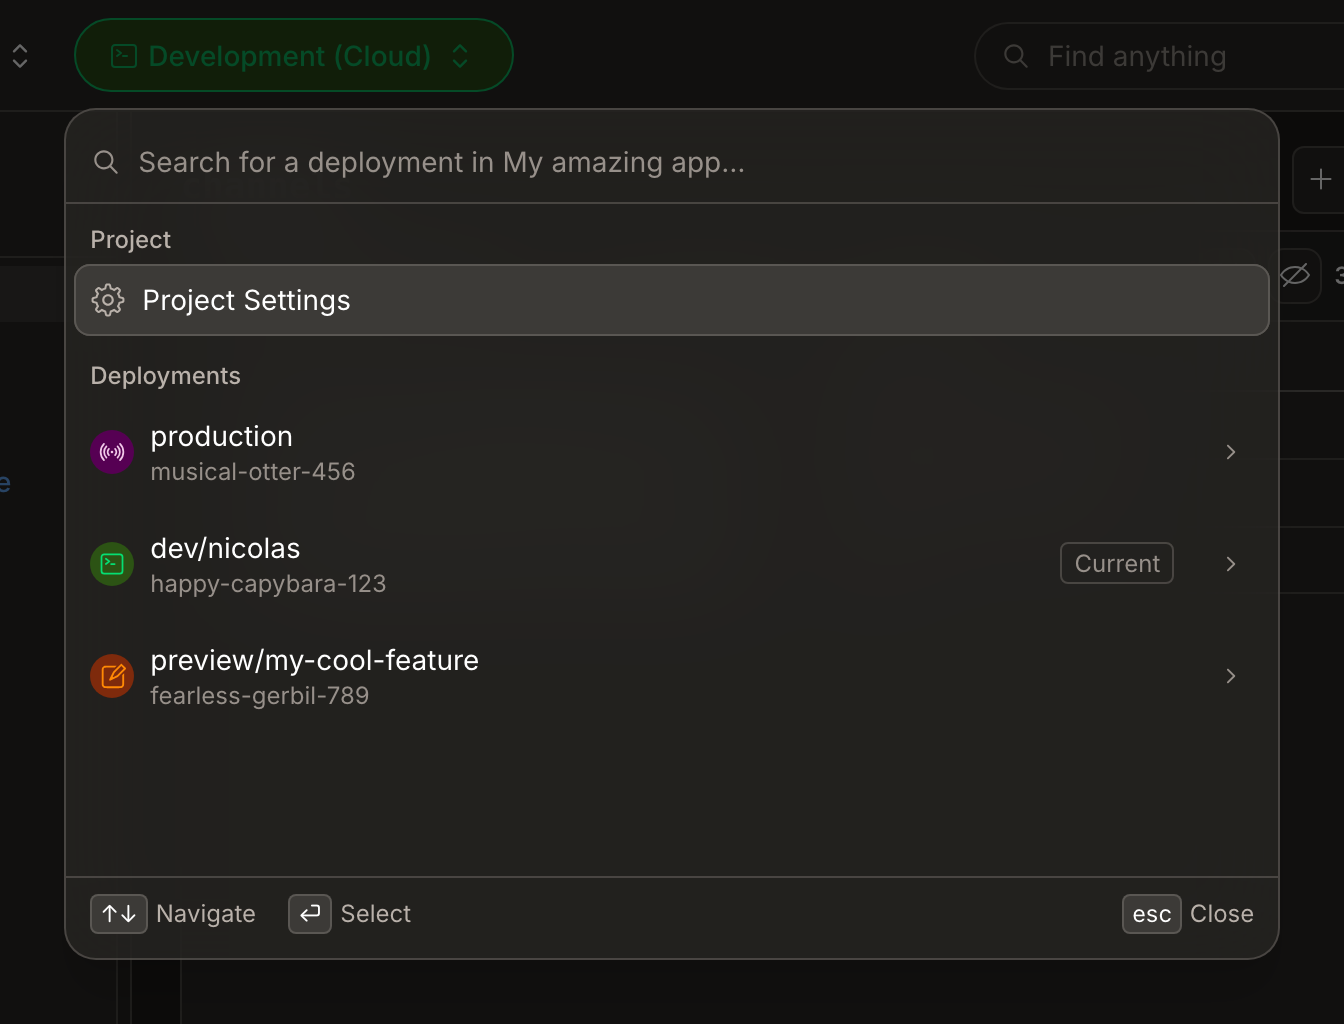
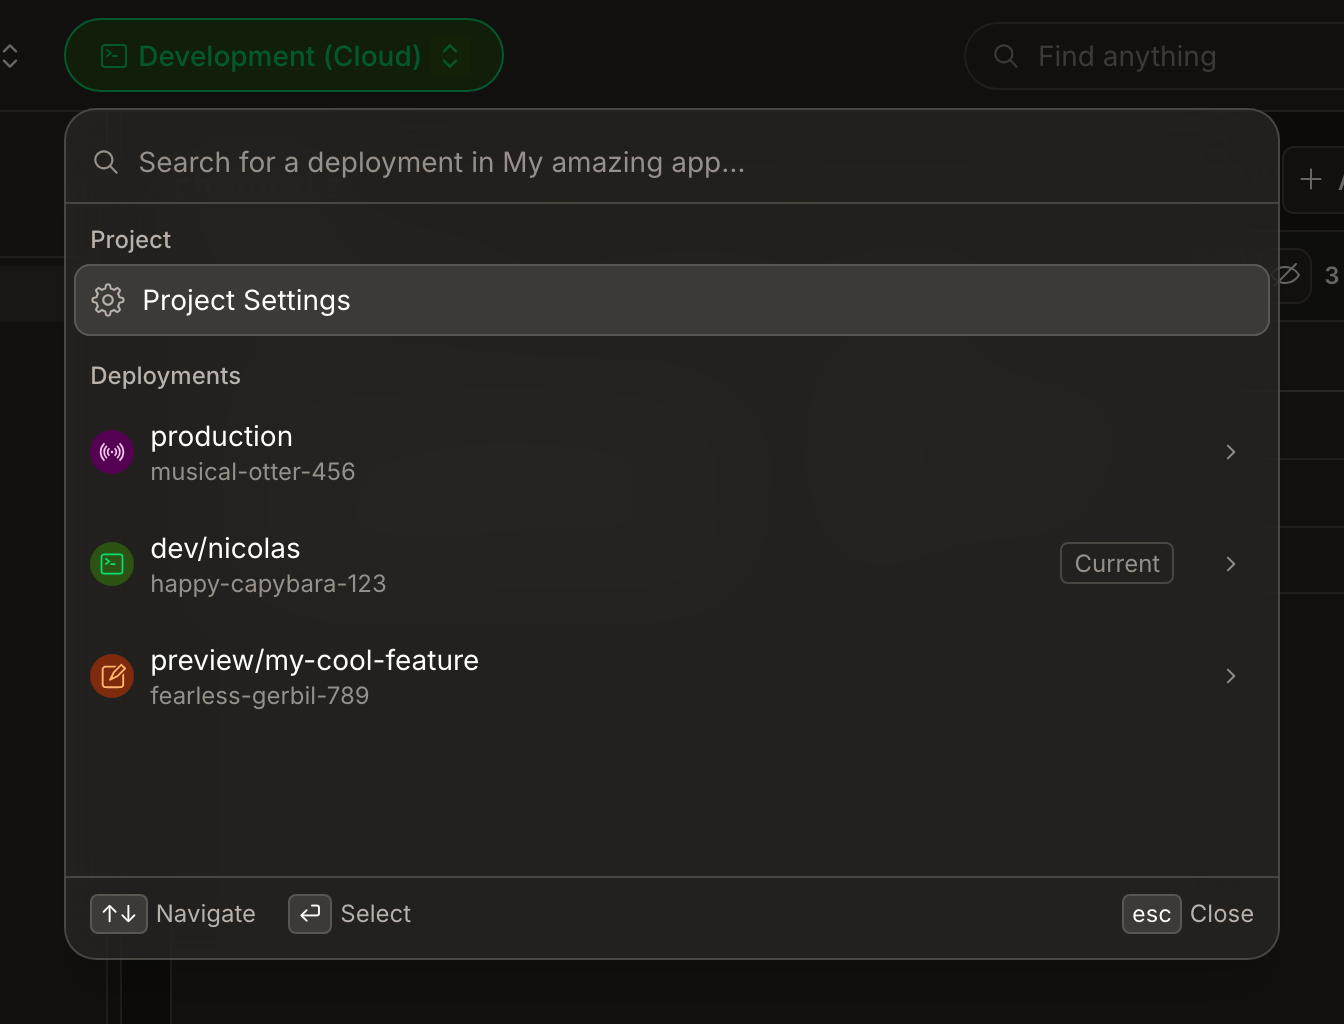
Storybook: run the a11y checks in dark mode too (#61818)
GitOrigin-RevId: 030978b1266ec044c90f5f25850992451fb2a83b

diff --git a/npm-packages/dashboard-storybook/vitest.config.ts b/npm-packages/dashboard-storybook/vitest.config.ts
@@ -37,26 +37,33 @@ export default defineConfig({
     ],
   },
   test: {
+    // Every story runs once per theme, so the a11y checks (color contrast in
+    // particular) cover both palettes.
     projects: [
-      {
-        extends: true,
-        plugins: [
-          storybookTest({
-            configDir: path.join(dirname, ".storybook"),
-            storybookScript: "npm run storybook -- --no-open",
-          }),
-        ],
-        test: {
-          name: "storybook",
-          browser: {
-            enabled: true,
-            provider: playwright(),
-            headless: true,
-            instances: [{ browser: "chromium" }],
-          },
-          setupFiles: ["./.storybook/vitest.setup.ts"],
-        },
-      },
+      storybookProject("storybook", "./.storybook/vitest.setup.ts"),
+      storybookProject("storybook-dark", "./.storybook/vitest.setup.dark.ts"),
     ],
   },
 });
+
+function storybookProject(name: string, setupFile: string) {
+  return {
+    extends: true,
+    plugins: [
+      storybookTest({
+        configDir: path.join(dirname, ".storybook"),
+        storybookScript: "npm run storybook -- --no-open",
+      }),
+    ],
+    test: {
+      name,
+      browser: {
+        enabled: true,
+        provider: playwright(),
+        headless: true,
+        instances: [{ browser: "chromium" as const }],
+      },
+      setupFiles: [setupFile],
+    },
+  };
+}

diff --git a/npm-packages/dashboard-common/src/lib/deploymentTypeColorClasses.ts b/npm-packages/dashboard-common/src/lib/deploymentTypeColorClasses.ts
@@ -35,7 +35,7 @@ export function deploymentTypeColorClasses(
     case "prod":
       return "[--bg-opacity:100%] border-purple-600 dark:border-purple-100 bg-purple-100/(--bg-opacity) text-purple-800 dark:bg-purple-700/(--bg-opacity) dark:text-purple-100";
     case "preview":
-      return "[--bg-opacity:100%] border-orange-600 dark:border-orange-400 bg-orange-100/(--bg-opacity) text-orange-800 dark:bg-orange-900/(--bg-opacity) dark:text-orange-400";
+      return "[--bg-opacity:100%] border-orange-600 dark:border-orange-400 bg-orange-100/(--bg-opacity) text-orange-800 dark:bg-orange-900/(--bg-opacity) dark:text-orange-300";
     case "dev":
       return "[--bg-opacity:100%] border-green-600 dark:border-green-400 bg-green-100/(--bg-opacity) text-green-800 dark:bg-green-900/(--bg-opacity) dark:text-green-400";
     case "custom":

diff --git a/npm-packages/dashboard-storybook/.storybook/vitest.setup.dark.ts b/npm-packages/dashboard-storybook/.storybook/vitest.setup.dark.ts
@@ -1,0 +1,18 @@
+import { setProjectAnnotations } from "@storybook/nextjs-vite";
+import { beforeAll } from "vitest";
+import * as a11yAddonAnnotations from "@storybook/addon-a11y/preview";
+import * as previewAnnotations from "./preview";
+
+const annotations = setProjectAnnotations([
+  a11yAddonAnnotations,
+  previewAnnotations,
+  // `theme` is the global that themeDecorator reads through addon-themes.
+  {
+    initialGlobals: {
+      ...previewAnnotations.default.initialGlobals,
+      theme: "dark",
+    },
+  },
+]);
+
+beforeAll(annotations.beforeAll);

diff --git a/npm-packages/@convex-dev/design-system/src/styles/shared.css b/npm-packages/@convex-dev/design-system/src/styles/shared.css
@@ -411,7 +411,8 @@ html.dark {
   --background-primary: rgb(30, 28, 26);
   --background-secondary: rgb(42, 40, 37);
   --background-tertiary: rgb(60, 58, 55);
-  --background-highlight: var(--yellow-900);
+  /* Darker than --yellow-900 so --content-secondary stays above 4.5:1 on it. */
+  --background-highlight: rgb(90, 63, 0);
   --background-success: var(--green-900);
   --background-warning: var(--yellow-900);
   --background-error: var(--red-900);

diff --git a/npm-packages/dashboard-common/src/elements/ReadonlyCodeDiff.stories.tsx b/npm-packages/dashboard-common/src/elements/ReadonlyCodeDiff.stories.tsx
@@ -11,7 +11,7 @@ const meta = {
     path: "example.js",
   },
   render: (args) => (
-    <div style={{ height: "100vh", background: "#eee" }}>
+    <div className="h-screen bg-background-primary">
       <ReadonlyCodeDiff {...args} />
     </div>
   ),

diff --git a/npm-packages/dashboard-common/src/elements/ReadonlyCode.stories.tsx b/npm-packages/dashboard-common/src/elements/ReadonlyCode.stories.tsx
@@ -8,7 +8,7 @@ const meta = {
     path: "example.js",
   },
   render: (args) => (
-    <div style={{ height: "100vh", background: "#eee" }}>
+    <div className="h-screen bg-background-primary">
       <ReadonlyCode {...args} />
     </div>
   ),
